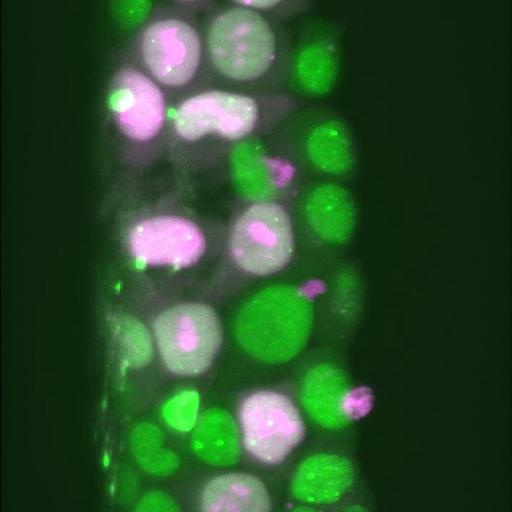
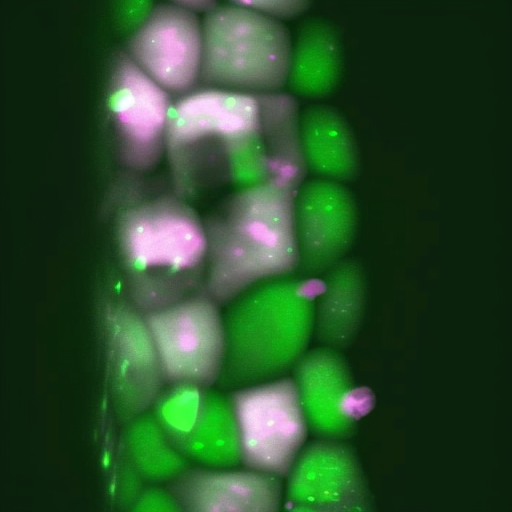
still testing..

diff --git a/LOCO-Edit/src/gradcam_svd.py b/LOCO-Edit/src/gradcam_svd.py
@@ -11,11 +11,11 @@ from modules.edit import EditStableDiffusion
 
 
 def gradcam_for_direction(edit, zt, u_k, mask, target_module):
-    """Run one GradCAM pass for SVD direction with vector u_k."""
     feat_cache, grad_cache = {}, {}
 
     def fwd_hook(m, i, o):
         feat_cache['x'] = o[0] if isinstance(o, tuple) else o
+
     def bwd_hook(m, gi, go):
         grad_cache['x'] = go[0]
 
@@ -23,6 +23,10 @@ def gradcam_for_direction(edit, zt, u_k, mask, target_module):
     h2 = target_module.register_full_backward_hook(bwd_hook)
 
     try:
+        # zero grad BEFORE forward, not after
+        edit.unet.zero_grad(set_to_none=True)
+        edit.vae.zero_grad(set_to_none=True)
+
         zt_grad = zt.detach().clone().requires_grad_(True)
         t_idx = edit.edit_t_idx
         t = edit.scheduler.timesteps[t_idx]
@@ -32,27 +36,28 @@ def gradcam_for_direction(edit, zt, u_k, mask, target_module):
                 zt_grad, t, t_idx,
                 edit.for_prompt_emb, edit.edit_prompt_emb, edit.null_prompt_emb,
                 mask=mask, mode="null+(for-null)"
-            )   # [1, num_mask_pixels]
-            u_k_dev = u_k.to(x0_masked.device, x0_masked.dtype)
+            )
+            u_k_dev = u_k.detach().to(x0_masked.device, x0_masked.dtype)
             score = (x0_masked[0] * u_k_dev).sum()
+            score.backward(retain_graph=True)    # inside enable_grad
 
-        edit.unet.zero_grad(set_to_none=True)
-        edit.vae.zero_grad(set_to_none=True)
-        score.backward()
+        score_val = float(score.detach().cpu())
 
-        feat = feat_cache['x']        # [1, C, Hf, Wf]
-        grad = grad_cache['x']        # [1, C, Hf, Wf]
+        feat = feat_cache['x'].detach()
+        grad = grad_cache['x'].detach()
 
         weights = grad.mean(dim=(2, 3), keepdim=True)
         cam = F.relu((weights * feat).sum(dim=1, keepdim=True))
         cam = F.interpolate(cam.float(), size=(512, 512), mode='bilinear', align_corners=False)
-        cam = cam[0, 0].detach().cpu().numpy()
+        cam = cam[0, 0].cpu().numpy()
         if cam.max() > 1e-8:
             cam = cam / cam.max()
-        return cam, float(score.detach().cpu())
-    finally:
-        h1.remove(); h2.remove()
 
+        return cam, score_val
+
+    finally:
+        h1.remove()
+        h2.remove()
 
 def save_overlay(orig_rgb, cam, path, alpha=0.5):
     colored = (cm.jet(cam)[..., :3] * 255).astype(np.uint8)
@@ -96,8 +101,9 @@ if __name__ == '__main__':
     mask = torch.load(edit.mask_path, map_location=edit.device).bool()
 
     # original image (preprocessed, same as model sees)
-    x0_orig = edit.dataset[edit.sample_idx]
-    orig_rgb = ((x0_orig[0].permute(1,2,0).cpu().float().numpy() + 1) / 2 * 255).clip(0,255).astype(np.uint8)
+    orig_path = os.path.join(edit.result_folder, 'original.png')
+    assert os.path.exists(orig_path), 'original.png not found — run main.py first'
+    orig_rgb = np.array(Image.open(orig_path).convert('RGB').resize((512, 512)))
 
     out_dir = os.path.join(edit.result_folder, 'gradcam')
     os.makedirs(out_dir, exist_ok=True)
@@ -112,9 +118,10 @@ if __name__ == '__main__':
     '''
     target_module = edit.unet.up_blocks[2].resnets[-1]   # last ResBlock in up_blocks[2]
 
-    num_directions = min(5, u_modify.size(0))   # edit this to visualize more
+    num_directions = args.pca_rank   # edit this to visualize more
     for k in range(num_directions):
-        u_k = u_modify[k]
+        u_k = u_modify[:, k]
+        u_k = u_k / (u_k.norm() + 1e-8) #normalizing
         cam, score = gradcam_for_direction(edit, zt, u_k, mask, target_module)
         print(f'direction {k}: score={score:.4f}, cam max-region size={(cam>0.5).sum()}')
 